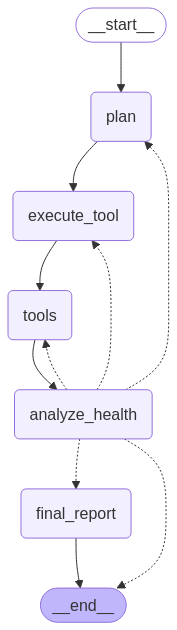
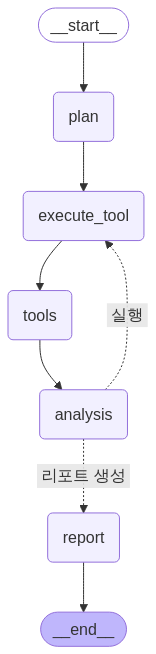
Refactor: AI agent 리팩토링
- 계획, 분석, 리포트 프롬프트 수정
- 각 노드의 이름 수정
- state에서 질문 의도와 focus area를 추가
- 그래프에서 condition pathmap 추가

diff --git a/backend/app/agent/prompt.py b/backend/app/agent/prompt.py
@@ -16,6 +16,13 @@ def create_planner_prompt():
         🔍 **작업 목표**
         1. **분석해야 할 건강 데이터 유형을 결정하세요.**  
            - 사용자의 질문에서 **심박수, 걸음 수, 수면, 스트레스, 활동** 등의 키워드를 찾아내세요.
+           - 단일 지표(예: 스트레스)에 대한 질문이라도 **관련된 건강 데이터**(예: 심박수, 수면, 활동량 등)를 함께 고려해 복합적으로 분석하세요.
+           - 예를 들어, "최근 스트레스 상태 어때?"라는 질문이 들어오면: 
+                - 스트레스 데이터를 기본 분석 대상으로 설정하고  
+                - **관련성이 높은 수면, 심박수, 활동 데이터도 함께 분석 대상에 포함**하세요.  
+           - 또 다른 예시로, "최근 운동량이 어때?"라는 질문이 들어오면:
+                - 활동량 데이터를 기본 분석 대상으로 설정하고  
+                - **관련성이 높은 걸음 수, 심박 수 데이터도 함께 분석 대상에 포함**하세요.  
            - 사용자가 특정 데이터를 지정하지 않았다면, **전반적인 건강 상태 분석을 수행하세요.**
         
         2. **질문의 유형을 분석하세요.**  
@@ -26,21 +33,22 @@ def create_planner_prompt():
            - **기간 질문 예시:**  
              - "최근 건강 상태가 어때?" → **최근 N일 동안의 전반적인 건강 분석**
              - "지난주 수면 패턴이 어땠어?" → **2025-01-01부터 2025-01-07까지 수면 데이터 분석**
-             - "지난달 내 걸음 수 추이는?" → **2025-02-01부터 2025-02-28까지 걸음 수 데이터 분석**
+             - "지난달 내 걸음 수 추이는?" → **2025-02-01부터 2025-02-28까지 걸음 수, 활동 데이터 분석**
 
         3. **분석 목표 설정**  
            - 데이터의 일반적인 패턴을 분석하세요.  
            - 특정 날짜 기반 질문이면, 해당 날짜의 데이터를 집중 분석하세요.  
-           - 기간 기반 질문이면, **전반적인 경향성을 분석하고 이상 징후를 감지**하세요.  
-           - 예를 들어, **"오늘 내 수면 상태 어때?"**라는 질문이 들어오면  
-             - "수면 시간, REM 수면, 깊은 수면 비율, 수면 질을 분석해야 함"  
-             - "이전 평균 수면 패턴과 비교해야 함"  
-             - "특이점이 있는 경우 추가 분석을 수행해야 함"
+           - 기간 기반 질문이면, **전반적인 경향성과 이상 징후를 분석**하세요. 
+           - **질문이 단일 지표에 국한되어 있더라도**, 관련된 데이터를 포함하여 분석 목표를 **복합적으로** 설정하세요. 
+           - 예를 들어, **"최근 스트레스 높았어?"**라는 질문이 들어오면 
+             - "스트레스 수준의 변화, 심박수 변화, 활동량, 수면 패턴을 함께 분석해야 함"   
+             - "스트레스 증가와 관련된 수면 질 저하나 활동 감소가 있었는지 확인해야 함"
+             - "특이점이 있는 경우 추가 분석 수행"
 
         ---
 
         📌 **출력 형식 (JSON)**
-        분석 목표를 **JSON 형식**으로 반환하세요.
+        분석 목표, 주요 관심 지표, 질문의 핵심 의도를 **JSON 형식**으로 반환하세요.
 
         ```json
         {
@@ -49,8 +57,15 @@ def create_planner_prompt():
                 "2025-01-01부터 2025-01-07까지 심박수 변화를 분석해야 함",
                 "오늘 수면 데이터에서 총 수면 시간, REM 수면, 깊은 수면 비율을 분석해야 함",
                 "오늘의 수면 패턴과 지난 7일 평균 수면 패턴을 비교해야 함",
-                "오늘 수면 시간이 평소보다 1시간 이상 줄어든 경우, 추가 분석이 필요함"
-            ]
+                "오늘 수면 시간이 평소보다 1시간 이상 줄어든 경우, 추가 분석이 필요함",
+                "스트레스 수준과 수면 패턴의 관계를 분석해야 함"
+            ],
+            "focus_areas": [
+                "수면",
+                "활동량",
+                "스트레스"
+            ],
+            "user_intent": "최근 수면의 질이 어떤지 알고 싶음"
         }
         ```
 
@@ -90,7 +105,7 @@ def create_execute_tool_prompt(
         content=f"""
         당신은 분석을 수행할 도구를 선택하는 전문가입니다.
         Planner와 이전 대화 내용을 기반으로 **적절한 도구를 선택하세요.**
-        🚨 **중요: 이전에 실행한 도구에서 동일한 날짜 범위에 대해 다시 실행하지 않도록 주의하세요.!**
+        🚨 **중요: 이전에 실행한 도구에서 동일한 날짜 범위에 대해 다시 실행하지 않도록 주의하세요!**
         실행된 도구 목록: {executed_tools}
 
         사용자의 아이디는 {user_id}입니다.
@@ -221,39 +236,54 @@ def create_final_report_prompt():
 
     return SystemMessage(
         content="""
-                당신은 사용자의 건강 데이터를 분석하는 전문가입니다.
-                사용자의 최근 건강 분석 결과를 바탕으로 **최종 건강 분석 보고서**를 Markdown 형식으로 작성하세요.
-                "HRV"같은 함축적 단어 대신 "수면 중 심박수" 또는 "심박수 변동" 같은 알아보기 쉬운 단어를 사용하세요.
-                
-                📌 **보고서 포함 내용**
-                1. **요약 (Summary)**  
-                - 최근 건강 분석 결과를 간결하게 정리하세요.
-                2. **주요 인사이트 (Insights)**  
-                - 심박수, 수면, 스트레스, 활동 데이터를 기반으로 핵심 패턴을 나열하세요.
-                3. **건강 피드백 (Feedback)**  
-                - 사용자의 건강 상태를 평가하고 장점과 개선할 점을 설명하세요.
-                4. **개선 방법 (Improvement Plan)**  
-                - 사용자가 실천할 수 있는 구체적인 행동 가이드를 제공하세요.
+        당신은 사용자의 건강 데이터를 분석하는 전문가입니다.
+        사용자의 최근 건강 분석 결과와 질문 의도를 바탕으로 **최종 건강 분석 보고서**를 Markdown 형식으로 작성하세요.
 
-                📌 **출력 예시 (Markdown 형식)**
-                ```
-                # 🏥 (수면, 심박수, 스트레스, 활동, 건강 중 하나를 선택) 분석 보고서
+        📌 반드시 아래 지침을 따르세요:
 
-                ## 📌 요약
-                최근 7일 동안 사용자의 평균 수면 시간이 6시간 이하로 감소했고, 스트레스 지수는 평균 28로 증가했습니다.
+        1. **사용자의 질문 의도(user_intent)를 서두에 반영**하세요.  
+           - 예: “최근 수면의 질이 어떤지 궁금하셨죠?”
 
-                ## 🔍 주요 인사이트
-                - 2025-03-18: 수면 시간이 5.5시간으로 평소보다 낮음
-                - 2025-03-19: 스트레스 지수가 30 이상으로 상승
-                - 2025-03-20: 활동량이 감소함
+        2. **보고서 제목에 사용자의 주요 관심사(user_intent)를 명시**하세요.  
+           - 예: `# 😴 수면 분석 보고서`
 
-                ## 💡 건강 피드백
-                최근 스트레스 지수가 증가하고 수면 시간이 줄어들고 있습니다. 이는 피로 누적과 집중력 저하로 이어질 수 있습니다. 하지만 꾸준한 걸음 수 목표를 달성한 점은 긍정적입니다.
+        3. **시간 단위는 초(sec) 대신 '분' 또는 '시간' 단위로 자연스럽게 변환**하세요.  
+           - 예: `총 수면 시간: 5시간 30분`, `스트레스 지속 시간: 120분`
 
-                ## ✅ 개선 방법
-                - 취침 시간을 30분 앞당겨 수면 시간을 확보하세요.
-                - 하루 10분씩 가벼운 명상이나 심호흡 연습을 시도하세요.
-                - 운동량이 감소하지 않도록 주 3회 이상 30분 걷기 운동을 유지하세요.
-                ```
-            """
+        4. **영어 표현은 사용하지 않고**, 일상적이고 친근한 한글 표현을 사용하세요.  
+           - 예: `"sedentary" → "앉아 있는 시간"`  
+           - `"HRV" → "심박수 변동"`
+
+        5. **정보 제공을 넘어, 격려와 동기를 부여하는 문장을 포함**하세요.  
+           - 예: `"오늘도 건강을 챙기려는 시도만으로도 멋진 변화의 시작입니다."`
+        
+        📌 **보고서 구성 (Markdown 형식)**
+        
+        ```
+        # 🏥 (사용자 질문 의도에 맞는 관심사) 분석 보고서
+
+        ## 🙋 사용자 질문 의도
+        (사용자 질문 의도 입력)
+        
+        ## 📌 요약
+        최근 7일 동안 스트레스 수준이 높게 유지되었으며, 수면 시간은 평균 5시간 40분으로 권장 수면보다 부족했습니다.
+        
+        ## 🔍 주요 인사이트
+        - 2025-03-18: 스트레스 지수가 30 이상으로 높았고, 수면 시간은 5시간 이하
+        - 2025-03-19: 활동량 감소, 앉아 있는 시간이 길어짐
+        - 2025-03-20: 심박수 변동이 크며 회복이 덜 이루어짐
+        
+        ## 💡 건강 피드백
+        최근 며칠간 스트레스와 수면의 균형이 무너진 경향이 있습니다. 특히 앉아 있는 시간이 많았고, 충분한 회복 시간이 확보되지 않았습니다. 
+        하지만 꾸준히 데이터를 기록하며 건강을 관리하려는 의지는 매우 훌륭합니다!
+        
+        ## ✅ 개선 방법
+        - 하루에 10분씩 짧은 산책을 통해 긴장을 완화해보세요.
+        - 취침 시간을 30분 정도 앞당기고, 스마트폰 사용을 줄이면 수면 질 향상에 도움이 됩니다.
+        - 매일 아침 간단한 스트레칭으로 하루를 기분 좋게 시작해보세요.
+
+        ✨ 오늘도 건강을 챙기려는 당신의 노력이 정말 소중합니다.  
+        스스로를 응원하며 한 걸음씩 나아가 보세요!
+        ```
+        """
     )

diff --git a/backend/app/agent/react_agent.py b/backend/app/agent/react_agent.py
@@ -126,6 +126,8 @@ class HealthAnalysisAgent:
             response = self._generate_analysis_plan(state, start_date, end_date)
             return {
                 "analysis_plan": response.analysis_plan,
+                "focus_areas": response.focus_areas,
+                "user_intent": response.user_intent,
                 "start_date": start_date,
                 "end_date": end_date,
             }
@@ -216,8 +218,8 @@ class HealthAnalysisAgent:
 
         return [msg.content for msg in tool_messages]
 
-    def _generate_health_analysis(self, state: AgentState, parsed_tool_data):
-        """AI에게 건강 분석 요청"""
+    def _generate_analysis(self, state: AgentState, parsed_tool_data):
+        """AI에게 건강 데이터 분석 요청"""
         analyze_health_llm = self._initialize_llm().with_structured_output(
             HealthAnalysisResult
         )
@@ -236,8 +238,21 @@ class HealthAnalysisAgent:
             else "이전 분석 결과 없음."
         )
 
+        plan_items = [f"- {plan}" for plan in state["analysis_plan"]]
+        analysis_plan = """
+        분석 계획:
+        """ + "\n".join(plan_items)
+
         previous_analysis_message = SystemMessage(
-            content=f"{previous_analysis_summaries}\n\n위 분석 결과를 고려하여 새로운 건강 분석을 수행하세요."
+            content=f"""
+            사용자 질문의도: {state["user_intent"]}
+            
+            {analysis_plan}
+
+            이전 분석 결과를 고려하여 새로운 건강 분석을 수행하세요.
+
+            {previous_analysis_summaries}
+            """
         )
         response = analyze_health_llm.invoke(
             [system_message, human_message, previous_analysis_message]
@@ -248,12 +263,12 @@ class HealthAnalysisAgent:
 
         return response
 
-    def _create_analyze_health_node(self):
+    def _create_analysis_node(self):
         """도구 실행 결과를 분석하고 추가 분석 여부를 판단하는 노드"""
 
-        def analyze_health(state: AgentState):
+        def analysis(state: AgentState):
             parsed_tool_data = self._extract_tool_execution_results(state)
-            response = self._generate_health_analysis(state, parsed_tool_data)
+            response = self._generate_analysis(state, parsed_tool_data)
             if response is None or response.summary is None:
                 raise ValueError(
                     "Health analysis response is invalid or missing a summary."
@@ -263,13 +278,13 @@ class HealthAnalysisAgent:
                 "messages": state["messages"] + [AIMessage(content=response.summary)]
             }
 
-        return analyze_health
+        return analysis
 
-    def _create_final_report_node(self):
+    def _create_report_node(self):
         """분석 노드의 결과를 최종 보고서로 변환하는 노드"""
         llm = self._initialize_llm()
 
-        def final_report(state: AgentState):
+        def report(state: AgentState):
             past_summaries = [history.summary for history in state["analysis_history"]]
 
             past_insights = []
@@ -281,14 +296,19 @@ class HealthAnalysisAgent:
 
             human_message = HumanMessage(
                 content=f"""
-            # 📌 요약
-            {joined_summaries}
+                # 🏥 ({', '.join(state.get('focus_areas', ['건강']))} 중 사용자 질문 의도에 맞는 단어) 분석 보고서
 
-            # 🔍 주요 인사이트
-            - {joined_insights}
+                ## 🙋 사용자 질문 의도
+                {state.get("user_intent", "최근 건강 상태가 어떤지 알고 싶어합니다.")}
 
-            위 데이터를 기반으로 건강 피드백과 개선 방안을 Markdown 형식으로 작성하세요.
-            """
+                # 📌 요약
+                {joined_summaries}
+
+                # 🔍 주요 인사이트
+                {joined_insights}
+
+                위 데이터를 기반으로 건강 피드백과 개선 방안을 Markdown 형식으로 작성하세요.
+                """
             )
             response = llm.invoke([create_final_report_prompt(), human_message])
 
@@ -296,7 +316,7 @@ class HealthAnalysisAgent:
                 "messages": state["messages"] + [response],
             }
 
-        return final_report
+        return report
 
     def _create_graph(self):
         """그래프 생성"""
@@ -304,8 +324,8 @@ class HealthAnalysisAgent:
         tools_node = ToolNode(tools=self.tools)
         plan_node_title = "plan"
         execute_tool_node_title = "execute_tool"
-        analyze_health_node_title = "analyze_health"
-        final_report_node_title = "final_report"
+        analysis_node_title = "analysis"
+        report_node_title = "report"
         tools_node_title = "tools"
 
         # 그래프 생성
@@ -318,27 +338,34 @@ class HealthAnalysisAgent:
             )
 
             return (
-                execute_tool_node_title
+                "추가 분석 요청"
                 if last_analysis and last_analysis.additional_analysis_needed
-                else final_report_node_title
+                else "리포트 생성"
             )
 
         # 노드 추가
         workflow.add_node(plan_node_title, self._create_plan_node())
-        workflow.add_node(analyze_health_node_title, self._create_analyze_health_node())
+        workflow.add_node(analysis_node_title, self._create_analysis_node())
         workflow.add_node(execute_tool_node_title, self._create_execute_tool_node())
-        workflow.add_node(final_report_node_title, self._create_final_report_node())
+        workflow.add_node(report_node_title, self._create_report_node())
         workflow.add_node(tools_node_title, tools_node)
 
         # 엣지 추가
         workflow.set_entry_point(plan_node_title)
         workflow.add_edge(plan_node_title, execute_tool_node_title)
         workflow.add_edge(execute_tool_node_title, tools_node_title)
-        workflow.add_edge(tools_node_title, analyze_health_node_title)
-        workflow.add_edge(final_report_node_title, END)
+        workflow.add_edge(tools_node_title, analysis_node_title)
+        workflow.add_edge(report_node_title, END)
 
         # 조건 엣지 추가
-        workflow.add_conditional_edges(analyze_health_node_title, custom_tool_condition)
+        workflow.add_conditional_edges(
+            analysis_node_title,
+            custom_tool_condition,
+            {
+                "추가 분석 요청": execute_tool_node_title,
+                "리포트 생성": report_node_title,
+            },
+        )
 
         return workflow.compile()
 
@@ -411,9 +438,6 @@ class HealthAnalysisAgent:
 
 def create_agent() -> HealthAnalysisAgent:
     """건강 분석 에이전트 생성
-
-    Args:
-        session: SQLAlchemy 세션
 
     Returns:
         HealthAnalysisAgent: 초기화된 건강 분석 에이전트

diff --git a/backend/app/agent/state.py b/backend/app/agent/state.py
@@ -9,6 +9,8 @@ class AnalysisPlan(BaseModel):
     """분석 계획"""
 
     analysis_plan: List[str]
+    focus_areas: List[str]
+    user_intent: str
 
 
 class DateRange(BaseModel):
@@ -46,6 +48,8 @@ class AgentState(TypedDict):
 
     user_query: str
     analysis_plan: Optional[List[str]]
+    focus_areas: Optional[List[str]]
+    user_intent: Optional[str]
     messages: Annotated[list, add_messages]
     tool_needed: bool = True
     user_id: int

diff --git a/backend/app/service/data_collector_service.py b/backend/app/service/data_collector_service.py
@@ -20,13 +20,15 @@ from app.model import (
     HeartRateDaily,
     HeartRateReading,
     SleepHRVReading,
+)
+from app.model import SleepMovement as SleepMovementModel
+from app.model import (
     SleepSession,
     StepsDaily,
     StepsIntraday,
     StressDaily,
     StressReading,
 )
-from app.model import SleepMovement as SleepMovementModel
 from app.service._base_service import BaseGarminService
 
 logger = logging.getLogger(__name__)
